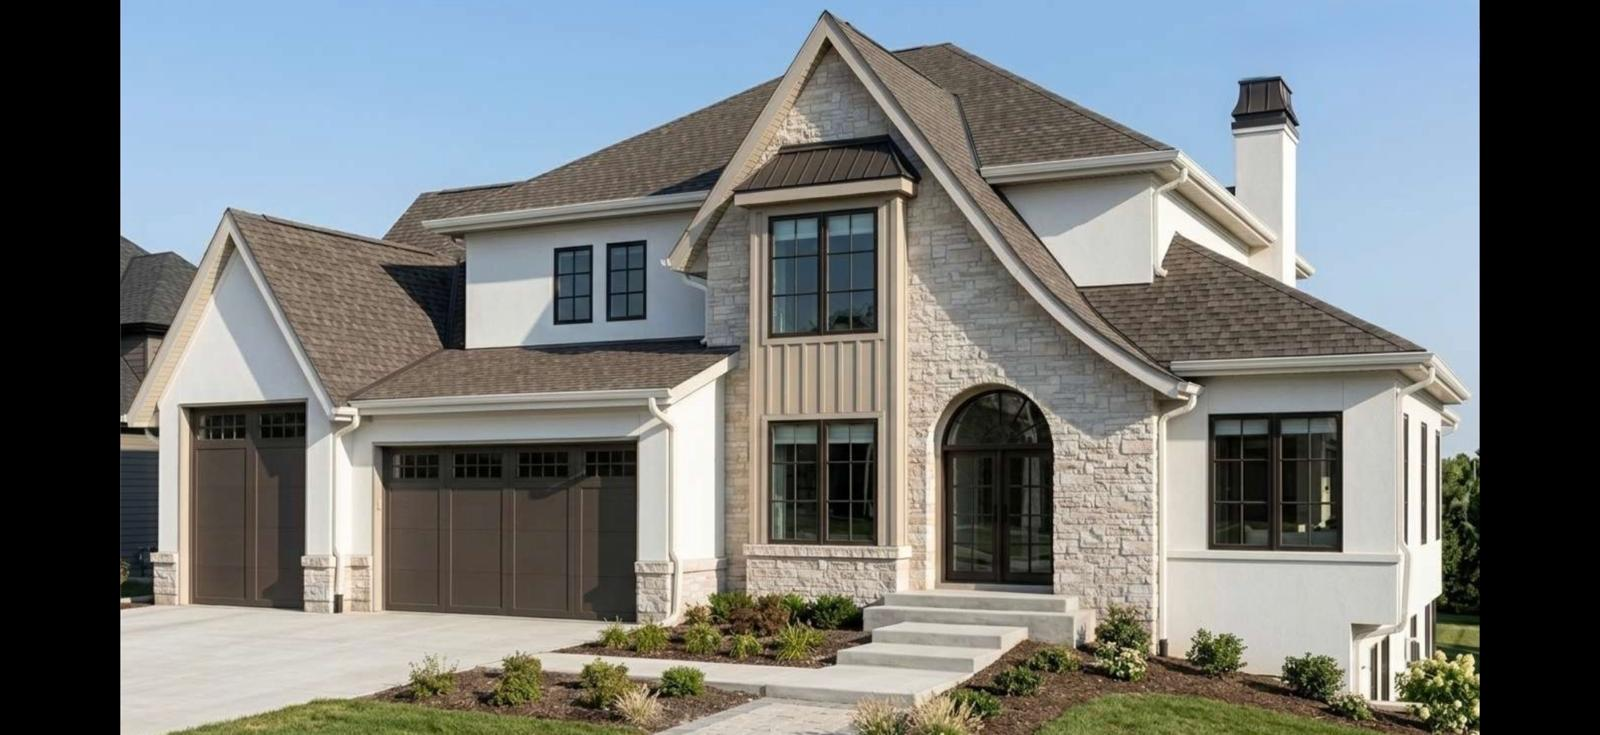
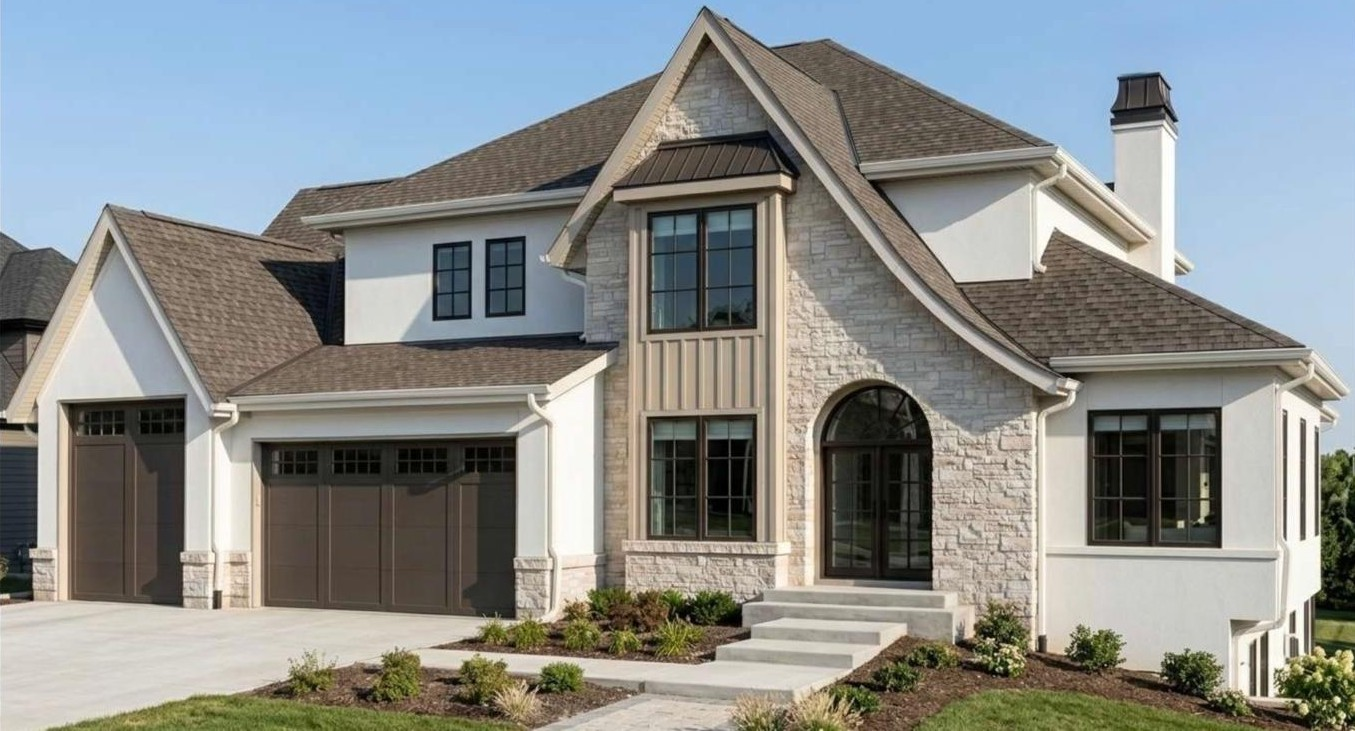
Fix main image and specs text

diff --git a/home-product.html b/home-product.html
@@ -166,7 +166,7 @@
       <div>
         <ul class="property-details__list" role="list">
           <!-- ✏ EDIT: Specs — add/remove <li> items freely -->
-          <li class="property-details__item">5,927 Sq Ft Finished Living Space (919 Sq Ft unfinished)</li>
+          <li class="property-details__item">5,927 Sq Ft Finished Living Space (1119 Sq Ft unfinished)</li>
           <li class="property-details__item">1,051 Sq Ft Oversized Garage</li>
           <li class="property-details__item">6 Bedrooms | 6 Bathrooms</li>
           <li class="property-details__item">Situated on a 0.48 Acre View Lot</li>
@@ -181,7 +181,7 @@
           <li class="property-details__item">Three Private Decks with Incredible Views</li>
           <li class="property-details__item">Home Theater / Golf Simulator Room (Unfinished)</li>
           <li class="property-details__item">Gym room (Unfinished)</li>
-          <li class="property-details__item">Full Walk-Out Basement with 10’ Ceilings</li>
+          <li class="property-details__item">Full Walk-Out Basement with 12’ Ceilings</li>
           <li class="property-details__item">RV Parking</li>
           <li class="property-details__item">One of the Best Views in the Neighborhood</li>
           <li class="property-details__item">Massive 4,000 Sq Ft Backyard — Fully Graded and Ready for Your Dream
